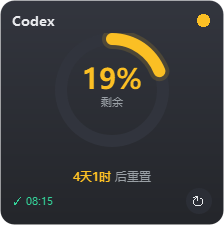
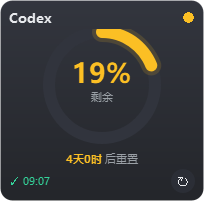
style: 卡片紧凑化, 尺寸 224x219 -> 204x~200
- 边距 12/11 -> 9/8, 行距 3 -> 2, 圆环占卡片比例放大
- 标题/状态点/倒计时/按钮字号与尺寸微降
- 倒计时整时整点省略 0 时(4天0时 -> 4天)

diff --git a/main.py b/main.py
@@ -97,7 +97,7 @@ def fmt_remain_rel(delta_sec):
     days, rem = divmod(total_min, 1440)
     hours, minutes = divmod(rem, 60)
     if days > 0:
-        return "%d天%d时" % (days, hours)
+        return "%d天" % days if hours == 0 else "%d天%d时" % (days, hours)
     if hours > 0:
         return "%d时%02d分" % (hours, minutes)
     return "%d分" % minutes
@@ -122,7 +122,7 @@ class RingGauge(QWidget):
 
     def __init__(self, parent=None):
         super().__init__(parent)
-        self.setFixedSize(148, 132)
+        self.setFixedSize(186, 120)
         self.m_display = None   # 当前显示值(动画中)
         self.m_target = None    # 动画目标值
         self.m_b_spin = False   # 查询中旋转标记
@@ -171,10 +171,10 @@ class RingGauge(QWidget):
         p = QPainter(self)
         p.setRenderHint(QPainter.Antialiasing)
 
-        # 环体几何
-        side = 102.0
+        # 环体几何(占满控件宽, 压缩卡片留白)
+        side = 106.0
         pen_w = 12.0
-        rect = QRectF((self.width() - side) / 2.0, 6.0, side, side)
+        rect = QRectF((self.width() - side) / 2.0, 3.0, side, side)
         center_y = rect.center().y()
 
         # 背景轨道
@@ -205,7 +205,7 @@ class RingGauge(QWidget):
         # 中心文字: 彩色百分比 + 灰色"剩余"
         p.setPen(QColor(num_color))
         p.setOpacity(alpha / 255.0)
-        f_big = QFont("Microsoft YaHei UI", 21)
+        f_big = QFont("Microsoft YaHei UI", 20)
         f_big.setBold(True)
         p.setFont(f_big)
         text = "--%" if self.m_display is None else "%d%%" % round(self.m_display)
@@ -244,20 +244,20 @@ class QuotaCard(QWidget):
             Qt.FramelessWindowHint | Qt.WindowStaysOnTopHint | Qt.Tool
         )
         self.setAttribute(Qt.WA_TranslucentBackground)
-        self.setFixedWidth(224)
+        self.setFixedWidth(204)
 
     def _init_ui(self):
         root = QVBoxLayout(self)
-        root.setContentsMargins(12, 11, 12, 11)
-        root.setSpacing(3)
+        root.setContentsMargins(9, 8, 9, 8)
+        root.setSpacing(2)
 
         # 标题行: 名称 + 健康状态点
         title_row = QHBoxLayout()
         self.lb_title = QLabel("Codex")
         self.lb_title.setStyleSheet(
-            "color:%s; font:600 10pt 'Microsoft YaHei UI';" % COLOR_TEXT)
+            "color:%s; font:600 9.5pt 'Microsoft YaHei UI';" % COLOR_TEXT)
         self.lb_dot = QLabel("●")
-        self.lb_dot.setStyleSheet("color:%s; font:12pt;" % COLOR_TEXT_DIM)
+        self.lb_dot.setStyleSheet("color:%s; font:10pt;" % COLOR_TEXT_DIM)
         title_row.addWidget(self.lb_title)
         title_row.addStretch()
         title_row.addWidget(self.lb_dot)
@@ -271,7 +271,7 @@ class QuotaCard(QWidget):
         self.lb_reset = QLabel("等待首次查询…")
         self.lb_reset.setAlignment(Qt.AlignCenter)
         self.lb_reset.setStyleSheet(
-            "color:%s; font:9pt 'Microsoft YaHei UI';" % COLOR_TEXT_DIM)
+            "color:%s; font:8.5pt 'Microsoft YaHei UI';" % COLOR_TEXT_DIM)
         root.addWidget(self.lb_reset)
 
         # 底部行: 极简状态 + 刷新按钮
@@ -280,12 +280,12 @@ class QuotaCard(QWidget):
         self.lb_status.setStyleSheet(
             "color:%s; font:8pt 'Microsoft YaHei UI';" % COLOR_TEXT_DIM)
         self.btn_refresh = QPushButton("↻")
-        self.btn_refresh.setFixedSize(26, 26)
+        self.btn_refresh.setFixedSize(24, 24)
         self.btn_refresh.setCursor(Qt.PointingHandCursor)
         self.btn_refresh.setToolTip("立即刷新(自动刷新周期 30 分钟)")
         self.btn_refresh.setStyleSheet(
             "QPushButton{color:%s; background:#2b2e36; border:none;"
-            "border-radius:13px; font:12pt;}"
+            "border-radius:12px; font:11pt;}"
             "QPushButton:hover{background:#3d414c; color:#ffffff;}"
             "QPushButton:disabled{color:#6b7078;}" % COLOR_TEXT)
         self.btn_refresh.clicked.connect(self._request_query)
@@ -355,7 +355,7 @@ class QuotaCard(QWidget):
 
         # 状态点: 触发限流→红, 否则按剩余健康度
         dot_color = COLOR_RED if main.get("rateLimitReachedType") else health_color(remain)
-        self.lb_dot.setStyleSheet("color:%s; font:12pt;" % dot_color)
+        self.lb_dot.setStyleSheet("color:%s; font:10pt;" % dot_color)
         self.lb_dot.setToolTip("状态: %s(剩余 %d%%)" % (
             "限流中" if main.get("rateLimitReachedType") else health_word(remain), remain))
 
@@ -509,7 +509,7 @@ class QuotaCard(QWidget):
         p = QPainter(self)
         p.setRenderHint(QPainter.Antialiasing)
         path = QPainterPath()
-        path.addRoundedRect(QRectF(self.rect()).adjusted(0.5, 0.5, -0.5, -0.5), 14, 14)
+        path.addRoundedRect(QRectF(self.rect()).adjusted(0.5, 0.5, -0.5, -0.5), 12, 12)
 
         grad = QLinearGradient(0, 0, 0, self.height())
         grad.setColorAt(0.0, QColor(38, 41, 50, 240))
